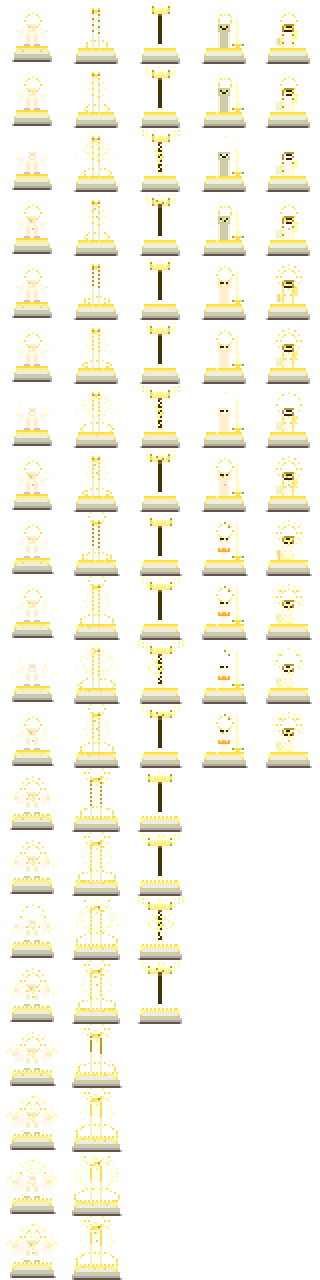
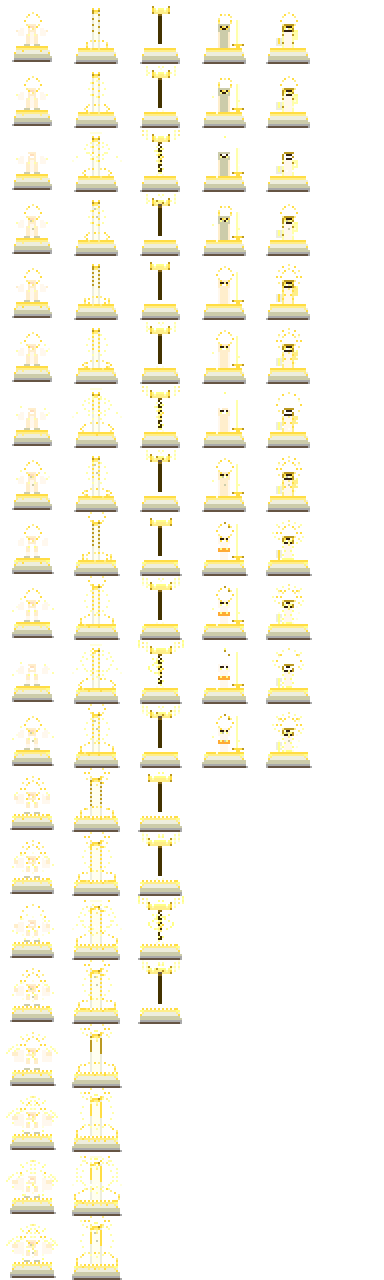
Fix celestial sprite sheet width for 6 towers
The canvas was hardcoded to 5 columns (320px) but the faction now has
6 towers. Updated to 6 columns (384px) and regenerated the sheet.

Alex caught this — the 6th tower's sprites were cut off.

diff --git a/celestial_sprites.tsx b/celestial_sprites.tsx
@@ -1002,18 +1002,18 @@ export default function App(){
 
   useEffect(()=>{
     // Towers
-    const tc=tRef.current!;tc.width=5*T_CELL;tc.height=T_TOTAL_ROWS*T_CELL;
+    const tc=tRef.current!;tc.width=6*T_CELL;tc.height=T_TOTAL_ROWS*T_CELL;
     const tCtx=tc.getContext('2d')!;tCtx.imageSmoothingEnabled=false;
     drawTowers(tCtx);
     // Tower preview
     const tpv=tPv.current!;const tS=2,tLW=66,tLH=13;
-    tpv.width=tLW+5*T_CELL*tS;tpv.height=T_TOTAL_ROWS*(T_CELL*tS+tLH)+10;
+    tpv.width=tLW+6*T_CELL*tS;tpv.height=T_TOTAL_ROWS*(T_CELL*tS+tLH)+10;
     const tpc=tpv.getContext('2d')!;tpc.imageSmoothingEnabled=false;
     tpc.fillStyle='#0a0808';tpc.fillRect(0,0,tpv.width,tpv.height);
     for(let r=0;r<T_TOTAL_ROWS;r++){const by=r*(T_CELL*tS+tLH)+5;tpc.fillStyle=r%T_STATES_PER_LVL===0?'#ddbb44':'#ccaa44';tpc.font='bold 9px monospace';tpc.fillText(T_ROW_LABELS[r],3,by+T_CELL*tS/2+3);
       // Draw level separator line
       if(r%T_STATES_PER_LVL===0&&r>0){tpc.strokeStyle='#665500';tpc.beginPath();tpc.moveTo(0,by-2);tpc.lineTo(tpv.width,by-2);tpc.stroke();}
-      for(let cc=0;cc<5;cc++){const bx_=tLW+cc*T_CELL*tS;tpc.save();tpc.translate(bx_,by);tpc.scale(tS,tS);tpc.drawImage(tc,cc*T_CELL,r*T_CELL,T_CELL,T_CELL,0,0,T_CELL,T_CELL);tpc.restore();tpc.strokeStyle='#332200';tpc.strokeRect(bx_,by,T_CELL*tS,T_CELL*tS);
+      for(let cc=0;cc<6;cc++){const bx_=tLW+cc*T_CELL*tS;tpc.save();tpc.translate(bx_,by);tpc.scale(tS,tS);tpc.drawImage(tc,cc*T_CELL,r*T_CELL,T_CELL,T_CELL,0,0,T_CELL,T_CELL);tpc.restore();tpc.strokeStyle='#332200';tpc.strokeRect(bx_,by,T_CELL*tS,T_CELL*tS);
         // Show tower names above the first row of level 1
         if(r===0){tpc.fillStyle='#aa9966';tpc.font='9px monospace';tpc.fillText(T_NAMES[cc]+` (${T_LEVELS[cc]}lvl)`,bx_+2,by-2);}
         // Grey out cells for towers that don't have this level
